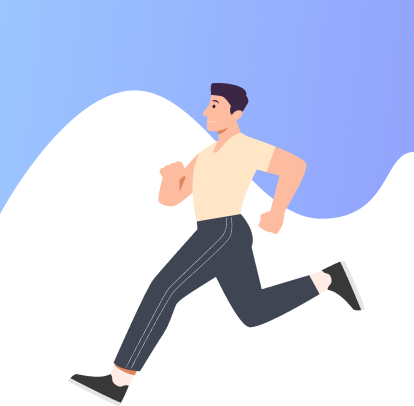
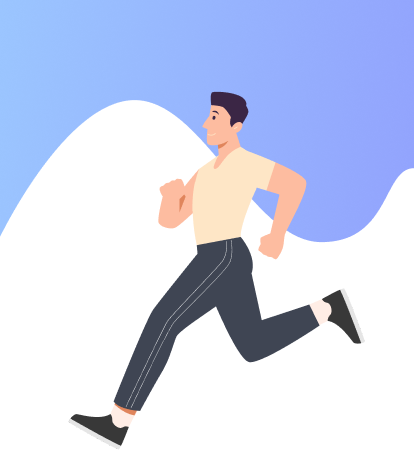
- Onboarding resimlerinin boyutları ayarlanarak tekrar yüklendi. - AppTextStyles içerisine titleMedium ve bodyMedium eklendi. - Auth ve Welcom sayfalarına navigasyon fonks. eklendi.

diff --git a/lib/features/auth/pages/sign_up.dart b/lib/features/auth/pages/sign_up.dart
@@ -9,6 +9,7 @@ import '../../../core/utils/widgets/custom_buttons.dart';
 import '../../../core/utils/widgets/custom_text_form_field.dart';
 import '../widgets/google_button.dart';
 import 'auth_base_view.dart';
+import 'sign_in_page.dart';
 
 class SignUpPage extends StatelessWidget {
   static const routeName = "sign-up";
@@ -22,6 +23,10 @@ class SignUpPage extends StatelessWidget {
   final String buttonLabel = "GET STARTED";
   final String alreadyHaveAnAccount = "ALREADY HAVE AN ACCOUNT? ";
   final String signIn = "SIGN IN";
+
+  void onSignInTapped(BuildContext context) =>
+      context.navigator.pushReplacementNamed(SignInPage.routeName);
+
   @override
   Widget build(BuildContext context) {
     return AuthBaseView(
@@ -46,7 +51,9 @@ class SignUpPage extends StatelessWidget {
               mainAxisSize: MainAxisSize.min,
               children: [
                 // name field
-                NormalTextFormField(),
+                NormalTextFormField(
+                  label: "Name",
+                ),
                 const Gap(AppPaddings.smallPaddingValue),
                 // email field
                 EmailField(),
@@ -65,14 +72,11 @@ class SignUpPage extends StatelessWidget {
                             ?.copyWith(color: AppColors.lightTextColor),
                         children: [
                           TextSpan(
-                            text: privacyPolicy,
-                            style: context.textTheme.labelLarge
-                                ?.copyWith(color: AppColors.primaryButtonColor),
-                            recognizer: TapGestureRecognizer()
-                              ..onTap = () {
-                                print('SIGN UP tapped');
-                              },
-                          )
+                              text: privacyPolicy,
+                              style: context.textTheme.labelLarge?.copyWith(
+                                  color: AppColors.primaryButtonColor),
+                              recognizer: TapGestureRecognizer()
+                                ..onTap = () => {})
                         ],
                       ),
                     ),
@@ -111,9 +115,9 @@ class SignUpPage extends StatelessWidget {
                   style: context.textTheme.labelLarge
                       ?.copyWith(color: AppColors.primaryButtonColor),
                   recognizer: TapGestureRecognizer()
-                    ..onTap = () {
-                      print('SIGN UP tapped');
-                    },
+                    ..onTap = () => onSignInTapped(
+                          context,
+                        ),
                 )
               ],
             ),

diff --git a/lib/features/auth/pages/welcome_page.dart b/lib/features/auth/pages/welcome_page.dart
@@ -9,6 +9,7 @@ import '../../../core/constants/app_paddings.dart';
 import '../../../core/extensions/context_extension.dart';
 import '../../../core/utils/widgets/custom_buttons.dart';
 import '../../../core/utils/widgets/image_container.dart';
+import 'sign_in_page.dart';
 
 class WelcomePage extends StatelessWidget {
   const WelcomePage({super.key});
@@ -21,14 +22,6 @@ class WelcomePage extends StatelessWidget {
   final String buttonLabel = "GET STARTED";
   @override
   Widget build(BuildContext context) {
-    // TODO : bunu da theme içinde hallet.
-    SystemChrome.setSystemUIOverlayStyle(
-      const SystemUiOverlayStyle(
-        statusBarColor: Colors.transparent,
-        statusBarIconBrightness: Brightness.dark,
-        systemNavigationBarColor: Color(0xff8C96FF),
-      ),
-    );
     return Theme(
       data: theme(),
       child: _Body(
@@ -40,6 +33,14 @@ class WelcomePage extends StatelessWidget {
   }
 
   ThemeData theme() => ThemeData(
+        appBarTheme: const AppBarTheme(
+          backgroundColor: AppColors.welcomeScaffoldColor,
+          systemOverlayStyle: SystemUiOverlayStyle(
+            statusBarColor: Colors.transparent,
+            statusBarIconBrightness: Brightness.dark,
+            systemNavigationBarColor: AppColors.welcomeScaffoldColor,
+          ),
+        ),
         textTheme: TextTheme(
           bodyLarge: GoogleFonts.rubik(
             fontSize: 16,
@@ -64,7 +65,6 @@ class WelcomePage extends StatelessWidget {
 
 class _Body extends StatelessWidget {
   const _Body({
-    super.key,
     required this.buttonLabel,
     required this.hiWelcome,
     required this.toGoodPlace,
@@ -80,15 +80,19 @@ class _Body extends StatelessWidget {
   Widget build(BuildContext context) {
     return Scaffold(
       extendBody: true,
+      extendBodyBehindAppBar: true,
       floatingActionButtonLocation: FloatingActionButtonLocation.centerFloat,
       floatingActionButton: Padding(
         padding: AppPaddings.authScreenHorizontalPadding,
         child: Row(
           mainAxisAlignment: MainAxisAlignment.center,
           children: [
+            /// Get Starte Button
             ExpandedFilledButton(
               label: buttonLabel,
-              onPressed: () {},
+              onPressed: () => context.navigator.pushNamed(
+                SignInPage.routeName,
+              ),
             ),
           ],
         ),
@@ -132,6 +136,7 @@ class _Body extends StatelessWidget {
             path: AppAssets.welcomePageImage,
             fit: BoxFit.fill,
             width: context.dynamicWidth(1),
+            height: context.dynamicHeight(0.6),
           ),
         ],
       ),

diff --git a/lib/features/auth/pages/auth_base_view.dart b/lib/features/auth/pages/auth_base_view.dart
@@ -1,11 +1,11 @@
 // ignore_for_file: public_member_api_docs, sort_constructors_first
 import 'package:flutter/material.dart';
 import 'package:flutter/services.dart';
-import 'package:good_place/config/theme.dart';
+import '../../../config/theme.dart';
 
 import '../../../core/constants/app_paddings.dart';
 import '../../../core/extensions/context_extension.dart';
-import '../widgets/auth_app_bar.dart';
+import '../widgets/auth_title_widget.dart';
 
 class AuthBaseView extends StatelessWidget {
   const AuthBaseView({
@@ -21,16 +21,31 @@ class AuthBaseView extends StatelessWidget {
     return Theme(
       data: authTheme(context),
       child: Scaffold(
-        appBar: PreferredSize(
-          preferredSize: Size.fromHeight(
-            context.dynamicHeight(0.3),
+        extendBodyBehindAppBar: true,
+        appBar: AppBar(
+          // clipBehavior: Clip.none,
+          leadingWidth: 75,
+          leading: GestureDetector(
+            onTap: () => context.pop(),
+            child: Container(
+              // width: ,
+              decoration: BoxDecoration(
+                  shape: BoxShape.circle,
+                  // color: Colors.red,
+                  border: Border.all(color: AppColors.grayTextColor)),
+              child: const Icon(Icons.arrow_back),
+            ),
           ),
-          child: AuthAppBar(title: title),
         ),
-        body: Padding(
-          padding: AppPaddings.authScreenHorizontalPadding,
-          child: SingleChildScrollView(
-            child: child,
+        body: SingleChildScrollView(
+          child: Column(
+            children: [
+              AuthTitleWidget(title: title),
+              Padding(
+                padding: AppPaddings.authScreenHorizontalPadding,
+                child: child,
+              ),
+            ],
           ),
         ),
       ),
@@ -39,12 +54,11 @@ class AuthBaseView extends StatelessWidget {
 
   ThemeData authTheme(BuildContext context) {
     return context.theme.copyWith(
-      appBarTheme: AppBarTheme(
+      appBarTheme: const AppBarTheme(
         titleSpacing: 0,
         scrolledUnderElevation: 0,
-        toolbarHeight: context.dynamicHeight(0.3),
         centerTitle: true,
-        systemOverlayStyle: const SystemUiOverlayStyle(
+        systemOverlayStyle: SystemUiOverlayStyle(
           statusBarIconBrightness: Brightness.dark,
           statusBarColor: Colors.transparent,
           systemNavigationBarColor: AppColors.authScaffoldColor,

diff --git a/lib/features/auth/pages/sign_in_page.dart b/lib/features/auth/pages/sign_in_page.dart
@@ -1,8 +1,8 @@
 import 'package:flutter/gestures.dart';
 import 'package:flutter/material.dart';
 import 'package:gap/gap.dart';
-import 'package:good_place/config/theme.dart';
-import 'package:google_fonts/google_fonts.dart';
+import 'package:good_place/features/auth/pages/sign_up.dart';
+import '../../../config/theme.dart';
 
 import '../../../core/constants/app_paddings.dart';
 import '../../../core/extensions/context_extension.dart';
@@ -24,6 +24,10 @@ class SignInPage extends StatelessWidget {
   final String forgotPassword = "Forgot Password";
   final String dontHaveAnAccount = 'DON’T HAVE AN ACCOUNT? ';
   final String signUp = 'SIGN UP';
+
+  void onSignUpTapped(BuildContext context) =>
+      context.navigator.pushReplacementNamed(SignUpPage.routeName);
+
   @override
   Widget build(BuildContext context) {
     return AuthBaseView(
@@ -56,7 +60,7 @@ class SignInPage extends StatelessWidget {
             ),
           ),
           const Gap(AppPaddings.mediumPaddingValue),
-          // button
+          // Login button
           Row(
             children: [
               ExpandedFilledButton(
@@ -91,9 +95,7 @@ class SignInPage extends StatelessWidget {
                     color: AppColors.primaryButtonColor,
                   ),
                   recognizer: TapGestureRecognizer()
-                    ..onTap = () {
-                      print('SIGN UP tapped');
-                    },
+                    ..onTap = () => onSignUpTapped(context),
                 )
               ],
             ),

diff --git a/lib/features/auth/widgets/auth_app_bar.dart b/lib/features/auth/widgets/auth_app_bar.dart
@@ -15,19 +15,19 @@ class AuthAppBar extends StatelessWidget {
   Widget build(BuildContext context) {
     return AppBar(
       clipBehavior: Clip.none,
-      title: Stack(
-        clipBehavior: Clip.none,
-        alignment: Alignment.center,
-        children: [
-          AssetImageContainer(
-            path: AppAssets.authTopBackgroundImage,
-            fit: BoxFit.fill,
-          ),
-          Text(
-            title,
-          ),
-        ],
-      ),
+      // title: Stack(
+      //   clipBehavior: Clip.none,
+      //   alignment: Alignment.center,
+      //   children: [
+      //     AssetImageContainer(
+      //       path: AppAssets.authTopBackgroundImage,
+      //       fit: BoxFit.fill,
+      //     ),
+      //     Text(
+      //       title,
+      //     ),
+      //   ],
+      // ),
     );
   }
 }

diff --git a/lib/features/auth/widgets/auth_title_widget.dart b/lib/features/auth/widgets/auth_title_widget.dart
@@ -1,0 +1,33 @@
+import 'package:flutter/material.dart';
+
+import '../../../core/constants/app_assets.dart';
+import '../../../core/extensions/context_extension.dart';
+import '../../../core/utils/widgets/image_container.dart';
+
+class AuthTitleWidget extends StatelessWidget {
+  const AuthTitleWidget({
+    super.key,
+    required this.title,
+  });
+
+  final String title;
+
+  @override
+  Widget build(BuildContext context) {
+    return Stack(
+      alignment: Alignment.center,
+      children: [
+        AssetImageContainer(
+          path: AppAssets.authTopBackgroundImage,
+          fit: BoxFit.fill,
+          height: context.dynamicHeight(0.33),
+          width: context.dynamicWidth(1),
+        ),
+        Text(
+          title,
+          style: context.textTheme.titleLarge,
+        ),
+      ],
+    );
+  }
+}

diff --git a/lib/core/constants/enums/assets_path_enum.dart b/lib/core/constants/enums/assets_path_enum.dart
@@ -17,7 +17,7 @@ enum _AssetsPathEnum {
   authTopBackgroundImage("${_rootImagePath}auth_screens_image.png"),
   welcomePageImage("${_rootImagePath}img_welcome.png"),
 
-  onboardingFirstPageImage("${_rootImagePath}img_Onbarding_1.png"),
+  onboardingFirstPageImage("${_rootImagePath}img_onboarding_1.png"),
   onboardingSecondPageImage("${_rootImagePath}img_Onbarding_2.png"),
   onboardingThirdPageImage("${_rootImagePath}img_Onbarding_3.png"),
   onboardingFourthPageImage("${_rootImagePath}img_Onbarding_4.png"),

diff --git a/lib/config/theme.dart b/lib/config/theme.dart
@@ -107,9 +107,19 @@ class AppTextStyles {
       fontWeight: FontWeight.bold,
       color: AppColors.darkTextColor,
     ),
+    titleMedium: GoogleFonts.rubik(
+      fontSize: 24,
+      fontWeight: FontWeight.bold,
+      color: AppColors.darkTextColor,
+    ),
     labelLarge: GoogleFonts.rubik(
       fontWeight: FontWeight.w500,
       fontSize: 14,
+    ),
+    bodyMedium: GoogleFonts.rubik(
+      fontSize: 14,
+      fontWeight: FontWeight.w400,
+      color: AppColors.grayTextColor,
     ),
   );
 }
